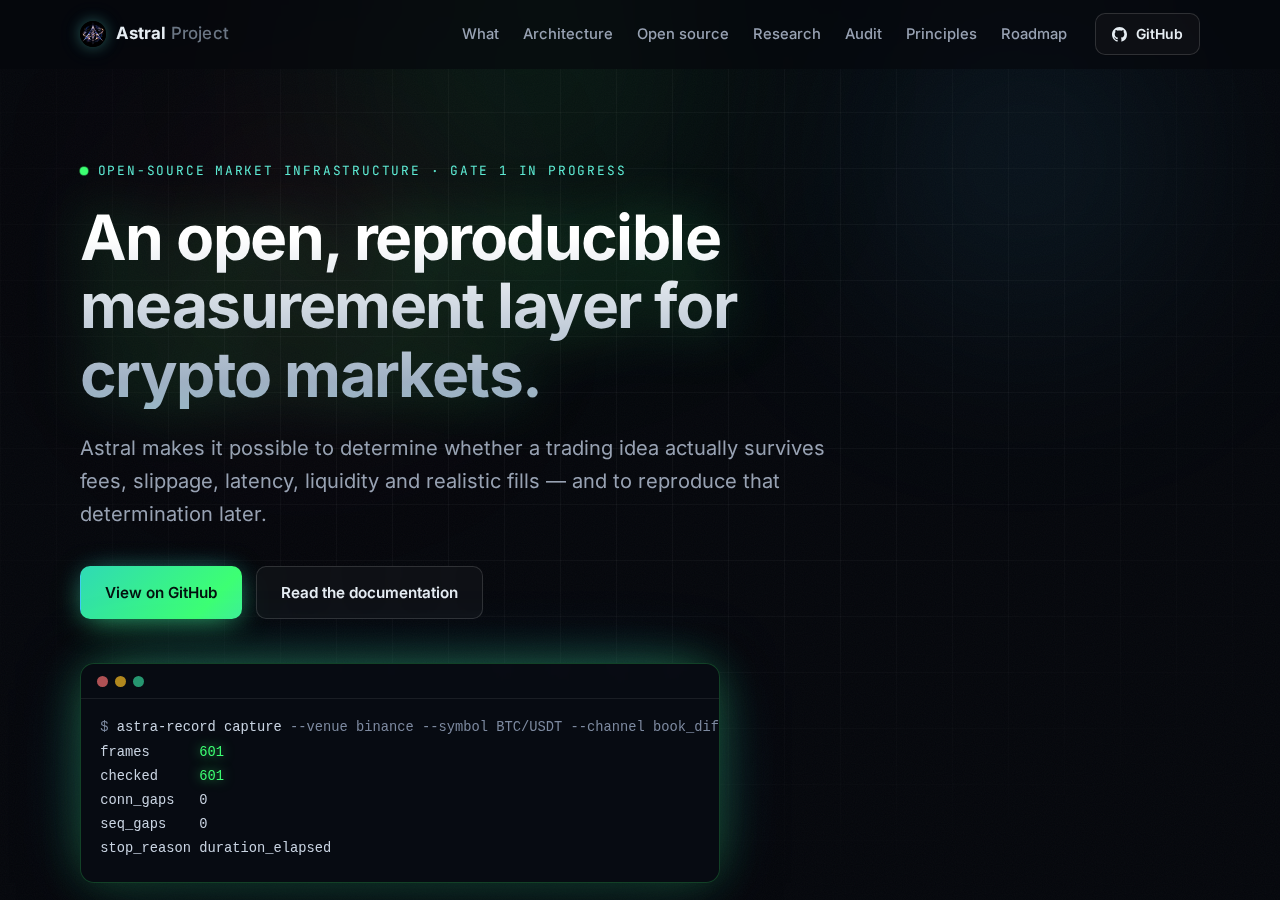
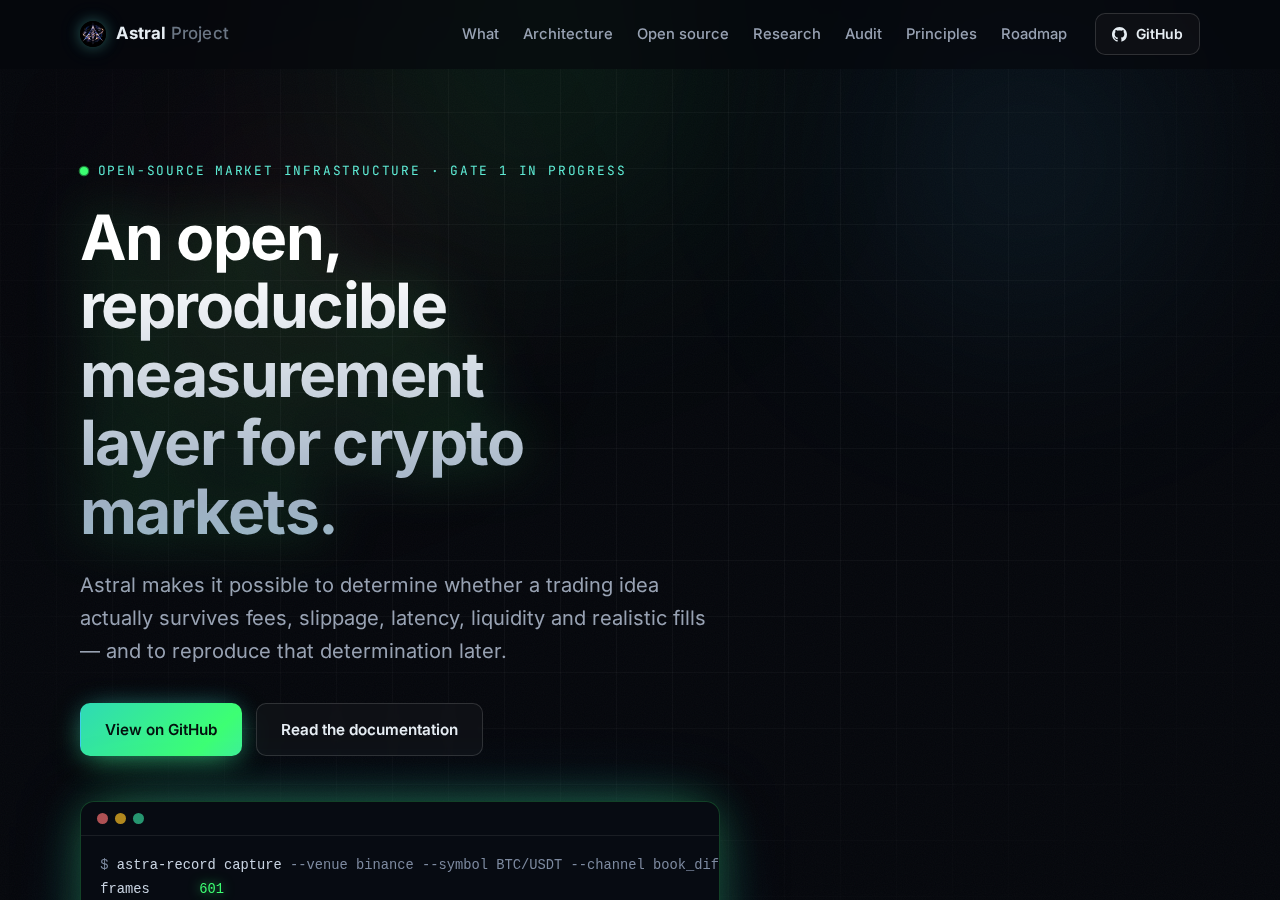
Python bindings foothold: exact decimals and clock for notebooks
- new astra-python crate (PyO3 0.29, proven against Python
  3.14 first in a spike): parse/canonicalize plus exact add,
  sub, mul, div with overflow and zero-division raising, and a
  monotonic clock read; embedded-interpreter tests
- importable packaging (maturin) explicitly open, not silent;
  README (mermaid, layout, verification) and site updated;
  hero 194->197

Changed region(s): [[0.0312, 0.6222, 0.5938, 1.0], [0.0625, 0.2178, 0.625, 0.5911]]

diff --git a/website/index.html b/website/index.html
@@ -72,7 +72,7 @@ stop_reason duration_elapsed</code></pre>
         <dl class="hero-stats reveal">
           <div><dt>Frames verified live</dt><dd>601 <span>of 601 checked</span></dd></div>
           <div><dt>Bootstrap skip count</dt><dd>133 <span>exact match</span></dd></div>
-          <div><dt>Unit tests</dt><dd>194 <span>passing</span></dd></div>
+          <div><dt>Unit tests</dt><dd>197 <span>passing</span></dd></div>
           <div><dt>Profitability claims</dt><dd>0 <span>by design</span></dd></div>
         </dl>
       </div>
@@ -173,6 +173,11 @@ stop_reason duration_elapsed</code></pre>
             <p class="mono-label">crate · astra-harness</p>
             <h3>Benchmark harness</h3>
             <p>One replay pass plus N probes into a canonical hashed JSON report — plus a local registry with <code>verify</code> reproduction verdicts. Same inputs, byte-identical outputs.</p>
+          </article>
+          <article class="card repo reveal">
+            <p class="mono-label">crate · astra-python</p>
+            <h3>Python bindings foothold</h3>
+            <p>Exact decimal arithmetic and clock reads for notebooks — embedded-tested on Python 3.14. Packaging open.</p>
           </article>
         </div>
         <p class="section-sub reveal" style="margin-top: 2.2rem">The contracts behind the crates — read these before citing a result.</p>

diff --git a/crates/astra-python/src/lib.rs b/crates/astra-python/src/lib.rs
@@ -1,0 +1,129 @@
+//! Python bindings foothold (`astra` module): fixed-point decimals and
+//! timestamps for the research layer.
+//!
+//! Deliberately small: parse, canonical display, exact arithmetic, and clock
+//! reads. DataFrames stay on the Python side (Polars/DuckDB over the Parquet
+//! this project writes); this crate keeps money math out of floats.
+//!
+//! Tested through the embedded interpreter (`cargo test`). Importable
+//! packaging (maturin) is a later distribution push, stated openly —
+//! `import astra` does not work yet.
+
+use astra_types::{Fixed, Timestamp};
+use pyo3::exceptions::PyValueError;
+use pyo3::prelude::*;
+
+fn parse_fixed_arg(s: &str) -> PyResult<Fixed> {
+    s.parse()
+        .map_err(|error| PyValueError::new_err(format!("bad decimal {s:?}: {error}")))
+}
+
+fn render(value: Option<Fixed>, what: &str) -> PyResult<String> {
+    value
+        .map(|value| value.to_string())
+        .ok_or_else(|| PyValueError::new_err(what.to_owned()))
+}
+
+/// Parse a decimal literal into canonical eight-place form.
+#[pyfunction]
+fn parse_fixed(s: &str) -> PyResult<String> {
+    Ok(parse_fixed_arg(s)?.to_string())
+}
+
+/// Exact arithmetic. Overflow (and division by zero) raise, never wrap.
+#[pyfunction]
+fn fixed_add(a: &str, b: &str) -> PyResult<String> {
+    render(
+        parse_fixed_arg(a)?.checked_add(parse_fixed_arg(b)?),
+        "fixed-point addition overflowed",
+    )
+}
+
+/// Exact arithmetic. Overflow raises, never wraps.
+#[pyfunction]
+fn fixed_sub(a: &str, b: &str) -> PyResult<String> {
+    render(
+        parse_fixed_arg(a)?.checked_sub(parse_fixed_arg(b)?),
+        "fixed-point subtraction overflowed",
+    )
+}
+
+/// Exact multiplication, half away from zero at the eighth place.
+#[pyfunction]
+fn fixed_mul(a: &str, b: &str) -> PyResult<String> {
+    render(
+        parse_fixed_arg(a)?.checked_mul(parse_fixed_arg(b)?),
+        "fixed-point multiplication overflowed",
+    )
+}
+
+/// Exact division, half away from zero. Zero divisors raise.
+#[pyfunction]
+fn fixed_div(a: &str, b: &str) -> PyResult<String> {
+    render(
+        parse_fixed_arg(a)?.checked_div(parse_fixed_arg(b)?),
+        "fixed-point division overflowed or divided by zero",
+    )
+}
+
+/// Current wall-clock time as integer nanoseconds since the epoch.
+#[pyfunction]
+fn timestamp_now_ns() -> PyResult<i64> {
+    Ok(Timestamp::now().unix_nanos())
+}
+
+#[pymodule]
+mod astra {
+    #[pymodule_export]
+    use super::{fixed_add, fixed_div, fixed_mul, fixed_sub, parse_fixed, timestamp_now_ns};
+}
+
+#[cfg(test)]
+mod tests {
+    use super::*;
+
+    fn attached<T>(f: impl FnOnce(Python<'_>) -> T) -> T {
+        Python::initialize();
+        Python::attach(f)
+    }
+
+    #[test]
+    fn decimals_round_trip_canonically() {
+        attached(|py| {
+            let parse = pyo3::wrap_pyfunction!(parse_fixed, py).unwrap();
+            let add = pyo3::wrap_pyfunction!(fixed_add, py).unwrap();
+            let mul = pyo3::wrap_pyfunction!(fixed_mul, py).unwrap();
+            let out: String = parse.call1(("108105.12",)).unwrap().extract().unwrap();
+            assert_eq!(out, "108105.12000000");
+            let out: String = add.call1(("2.5", "0.25")).unwrap().extract().unwrap();
+            assert_eq!(out, "2.75000000");
+            let out: String = mul
+                .call1(("108105.12", "0.001"))
+                .unwrap()
+                .extract()
+                .unwrap();
+            assert_eq!(out, "108.10512000");
+        });
+    }
+
+    #[test]
+    fn bad_literals_and_overflow_raise() {
+        attached(|py| {
+            let parse = pyo3::wrap_pyfunction!(parse_fixed, py).unwrap();
+            let div = pyo3::wrap_pyfunction!(fixed_div, py).unwrap();
+            assert!(parse.call1(("abc",)).is_err());
+            assert!(div.call1(("1", "0")).is_err());
+        });
+    }
+
+    #[test]
+    fn clock_reads_monotonically() {
+        attached(|py| {
+            let now = pyo3::wrap_pyfunction!(timestamp_now_ns, py).unwrap();
+            let first: i64 = now.call0().unwrap().extract().unwrap();
+            let second: i64 = now.call0().unwrap().extract().unwrap();
+            assert!(second >= first);
+            assert!(first > 1_700_000_000_000_000_000);
+        });
+    }
+}

diff --git a/README.md b/README.md
@@ -169,6 +169,8 @@ flowchart TD
     HN[astra-harness<br/>one replay · N probes]
     HN --> RP
     HN --> EX
+    PY[astra-python<br/>decimals · clock]
+    PY --> RT
 ```
 
 Arrows mean "depends on". Everything speaks the `astra-types` schema, so the
@@ -183,6 +185,7 @@ capture format, the book, and the audit tooling can never drift apart.
 | `crates/astra-replay` | Deterministic replay: event core (`book_diff` + `trade` + `top_of_book`), `book-top` strategy, CLI |
 | `crates/astra-exec` | Conservative fills: limit-maker simulation over trade prints, required fee tier, plus a probe CLI (`exec-v1`) |
 | `crates/astra-harness` | Benchmark harness (`bench-v1`): one replay pass + N probes → canonical hashed report, plus a local registry (`run --record`, `list`, `verify` with reproduction verdicts) |
+| `crates/astra-python` | Python bindings foothold (`astra` module): exact decimal arithmetic and clock reads, embedded-tested; maturin packaging open |
 | `docs/normalized-schema.md` | The v1 spec for normalized Parquet tables, implemented for `book_diff`, `trade`, `top_of_book` |
 | `docs/replay-design.md` | The v1 contract for the deterministic replay engine, implemented in `astra-replay` |
 | `docs/cross-machine-repro.md` | The cross-machine reproduction procedure (hashes compared, execution open) |
@@ -726,6 +729,7 @@ which equality broke).
 | Used capture dirs refuse, not merge | starting a capture where chunks exist errors loudly (`CaptureExists`) instead of colliding sequence numbers; resume stays future work | GUARDED |
 | `init` refuses used dirs too | the same guard covers initialization, which rewrote manifests under existing chunks; fresh dirs initialize normally | GUARDED |
 | Tampered registry entries fail closed | rewriting a stored config changes the re-run, so verification compares unequal and returns false instead of trusting the directory name | TESTED |
+| Python bindings foothold | `astra` module with exact decimal arithmetic and clock reads, tested through the embedded interpreter on Python 3.14; `import astra` packaging (maturin) stays open | TESTED |
 | Book updates count applied events only | rejected and pre-snapshot events touch neither counter (they change nothing and carry no bad data); `errors` stays reserved for invalid levels | COUNTED |
 | Compare gated like every reader | `verify` checks both manifests (version plus venue counts) before comparing; the last blind reader now refuses torn inputs | GATED |
 | Capture schema-version gate | `check`, `normalize`, and `replay` refuse manifests declaring a newer schema version instead of misreading them; one gate test per reader | GATED |
